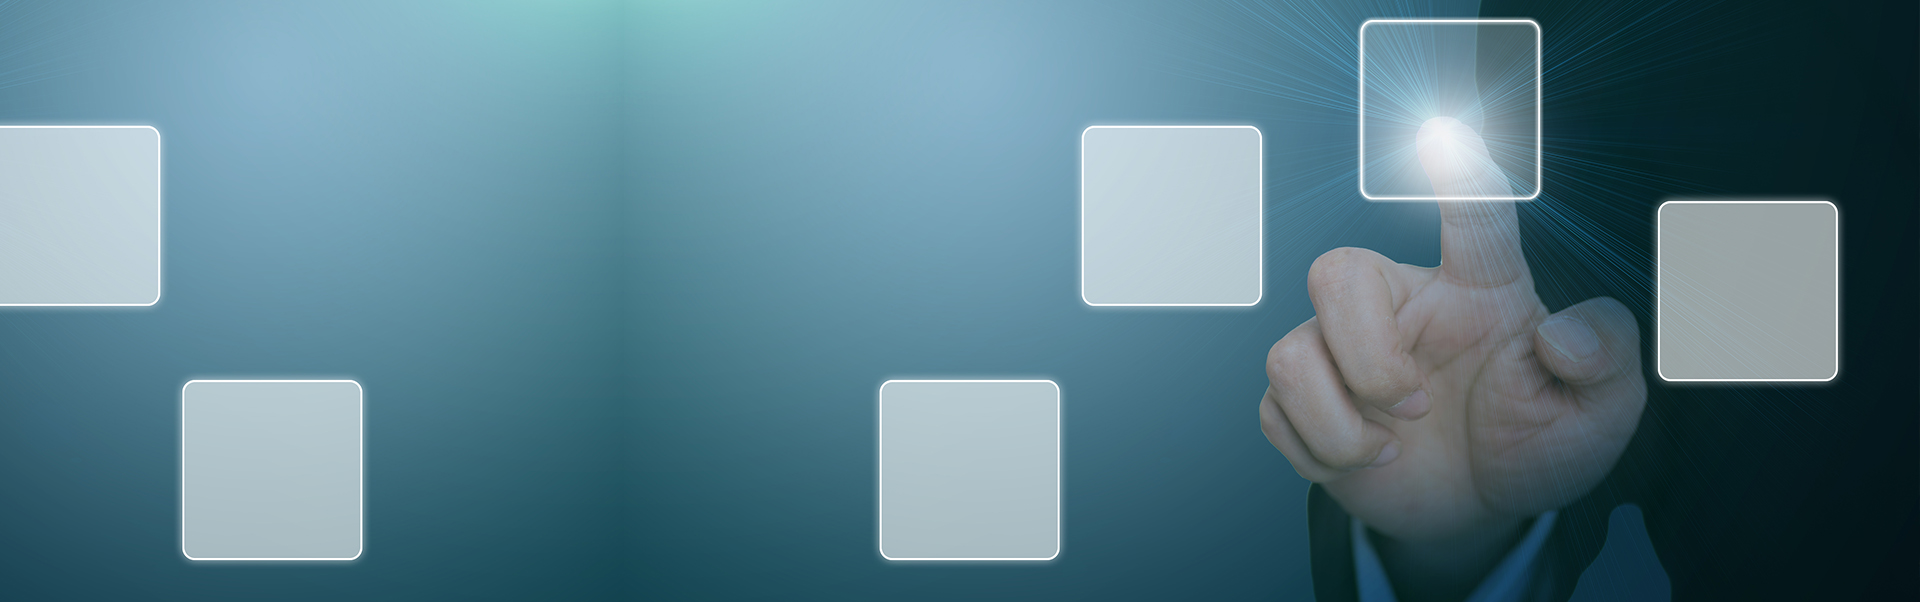
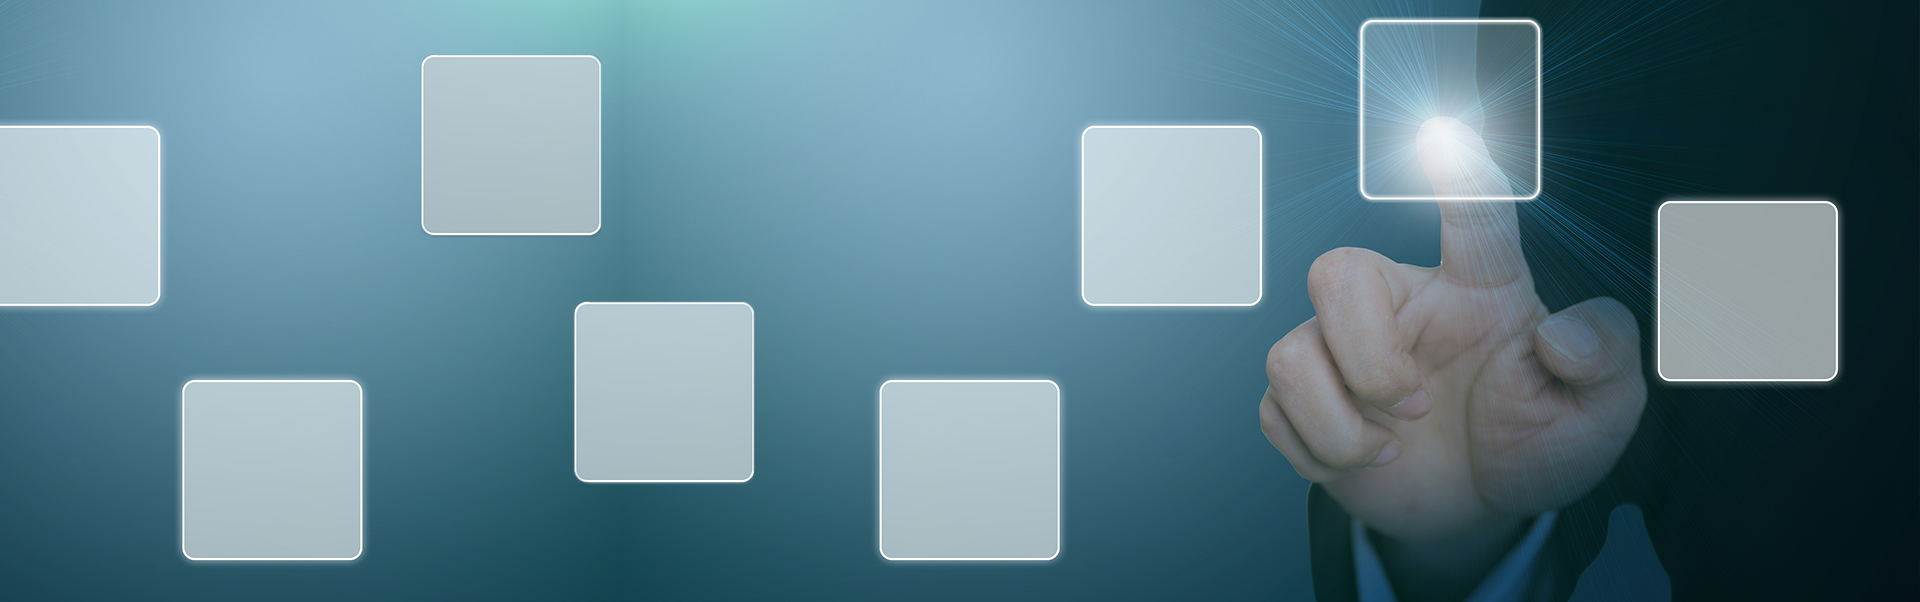
v 1.0.70

Changed region(s): [[0.2812, 0.4784, 0.4062, 0.8073], [0.2188, 0.0897, 0.3125, 0.3887]]

diff --git a/public/assets/css/style.css b/public/assets/css/style.css
@@ -4354,6 +4354,12 @@
                     .bg_image--KnotERP {
                         background-image: url(../images/bg/HiLinkzERPbanner.jpg);
                     }
+                    .bg_image--sims {
+                        background-image: url(../images/bg/bg-image-sims.jpg);
+                    }
+                    .bg_image--minias {
+                        background-image: url(../images/bg/bg-image-minias.jpg);
+                    }
                     
                     .font--1 {
                         font-size: 1px !important;
@@ -13667,6 +13673,17 @@
                     @media only screen and (max-width: 575px) {
                         .bg_image--KnotERP {
                             background-position: 87% center;
+                        }
+                    }
+                    @media only screen and (max-width: 575px) {
+                        .bg_image--sims {
+                            background-image: url(../images/work/sims_s.jpg);
+                            background-position: 10% center;
+                        }
+                    }
+                    @media only screen and (min-width: 600px) and (max-width: 1200px) {
+                        .bg_image--sims {
+                            background-image: url(../images/work/sims_s.jpg);
                         }
                     }
 /*------------------------

diff --git a/resources/views/web/work/sims-index.blade.php b/resources/views/web/work/sims-index.blade.php
@@ -41,7 +41,7 @@
 @endsection
 @section('content')
     <!-- Start Breadcrump Area  -->
-    <div class="rn-page-title-area pt--120 pb--190 bg_image bg_image--KnotERP" data-black-overlay="5">
+    <div class="rn-page-title-area pt--120 pb--190 bg_image bg_image--sims" data-black-overlay="2">
         <div class="container">
             <div class="row">
                 <div class="col-lg-12">
@@ -71,7 +71,7 @@
     <!-- End Column Area  -->
 
     <!-- Start Column Area  -->
-    <div class="rn-column-area rn-section-gap bg_color--5">
+    <div class="rn-column-area rn-section-gap-work bg_color--5">
         <div class="container">
             <div class="row align-items-center">
                 {{-- <div class="col-12">
@@ -86,7 +86,7 @@
 
                 <div class="col-lg-6 ">
                     <div class="thumbnail">
-                        <img class="w-100" src="{{ asset('assets/images/work/KnotERP/HiLinkz 800-600Accounting.jpg') }}"
+                        <img class="w-100" src="{{ asset('assets/images/work/sims/sims_800_600.jpg') }}"
                             alt="Service Images" />
                     </div>
                 </div>
@@ -118,8 +118,8 @@
     <!-- End Column Area  -->
 
     <div class="button-group mt--30 mb--30 text-center">
-        <a class="btn-transparent rn-btn-dark" href="{{ route('all_services') }}"><span class="text font-italic">View More
-                Services </span><i class="fas fa-arrow-right"></i></a>
+        <a class="btn-transparent rn-btn-dark" href="{{ route('our_works') }}"><span class="text font-italic">View More
+            Works </span><i class="fas fa-arrow-right"></i></a>
     </div>
     <!-- Contact Form Starts Here -->
     <div class="rn-contact-area rn-section-gap bg_color--5" id="contact">

diff --git a/resources/views/web/work/minias-index.blade.php b/resources/views/web/work/minias-index.blade.php
@@ -41,7 +41,7 @@
 @endsection
 @section('content')
     <!-- Start Breadcrump Area  -->
-    <div class="rn-page-title-area pt--120 pb--190 bg_image bg_image--KnotERP" data-black-overlay="5">
+    <div class="rn-page-title-area pt--120 pb--190 bg_image bg_image--minias" data-black-overlay="3">
         <div class="container">
             <div class="row">
                 <div class="col-lg-12">
@@ -71,7 +71,7 @@
     <!-- End Column Area  -->
 
     <!-- Start Column Area  -->
-    <div class="rn-column-area rn-section-gap bg_color--5">
+    <div class="rn-column-area rn-section-gap-work bg_color--5">
         <div class="container">
             <div class="row align-items-center">
                 {{-- <div class="col-12">
@@ -115,8 +115,8 @@
     <!-- End Column Area  -->
 
     <div class="button-group mt--30 mb--30 text-center">
-        <a class="btn-transparent rn-btn-dark" href="{{ route('all_services') }}"><span class="text font-italic">View More
-                Services </span><i class="fas fa-arrow-right"></i></a>
+        <a class="btn-transparent rn-btn-dark" href="{{ route('our_works') }}"><span class="text font-italic">View More
+            Works </span><i class="fas fa-arrow-right"></i></a>
     </div>
     <!-- Contact Form Starts Here -->
     <div class="rn-contact-area rn-section-gap bg_color--5" id="contact">

diff --git a/resources/views/web/work/our-works-index.blade.php b/resources/views/web/work/our-works-index.blade.php
@@ -1,21 +1,19 @@
 @extends('layouts.web-inner')
 @section('title', 'Our Works')
 
-
 @section('custom_styles')
 <style type="text/css">
     .zoom {
         width: 100%;
         transition: 0.2s all ease-in-out;
     }
-
     .zoom:hover {
         transform: scale(1.02);
     }
-
 </style>
 @endsection
 @section('content')
+
 <!-- Start Breadcrump Area  -->
 <div class="rn-page-title-area pt--120 pb--190 bg_image bg_image--work" data-black-overlay="3">
     <div class="container">

diff --git a/resources/views/web/work/ryogas-index.blade.php b/resources/views/web/work/ryogas-index.blade.php
@@ -398,7 +398,6 @@
 
 
 
-    <!-- End Column Area  -->
     <div class="button-group mt--30 mb--30 text-center">
         <a class="btn-transparent rn-btn-dark" href="{{ route('our_works') }}"><span class="text font-italic">View More
                 Works </span><i class="fas fa-arrow-right"></i></a>
